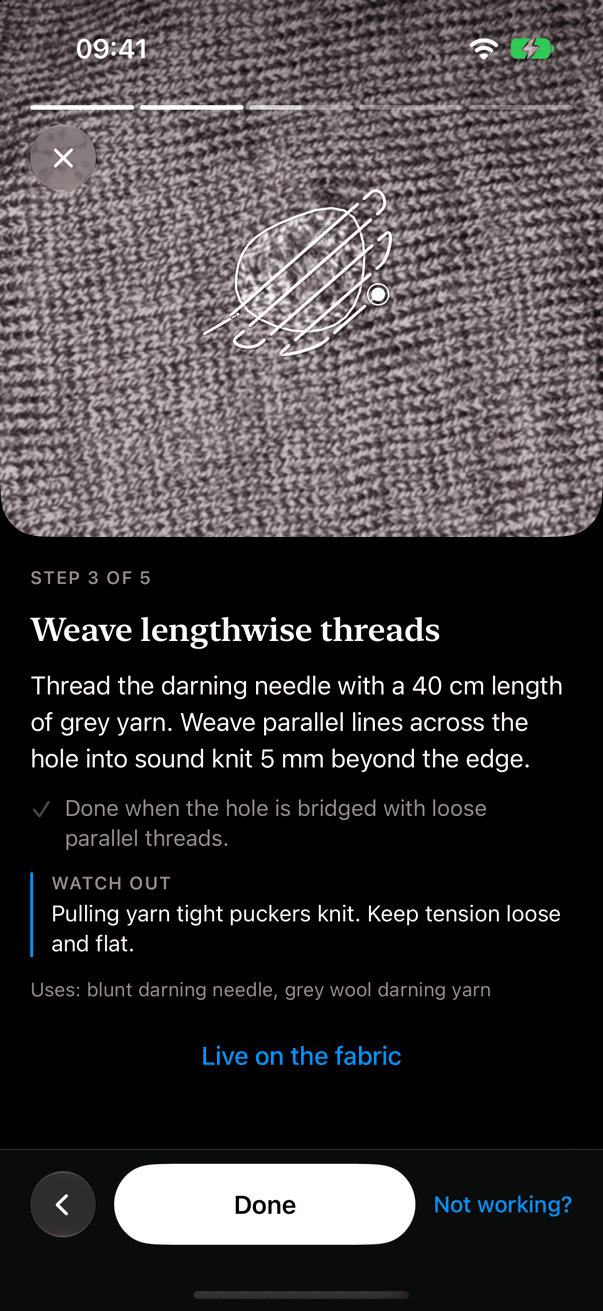
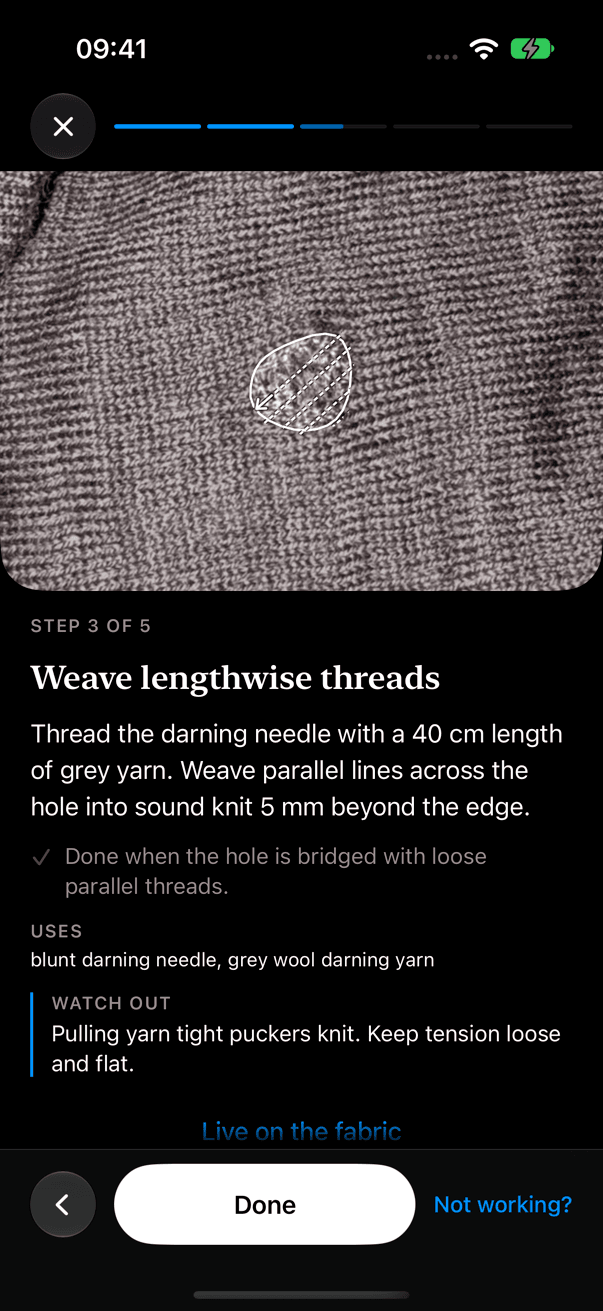
ios: Uses-Zeile kompakt, alle v8-Screenshots neu aufgenommen

diff --git a/ios/RepairAssistant/Views/GuideView.swift b/ios/RepairAssistant/Views/GuideView.swift
@@ -107,11 +107,8 @@ struct GuideView: View {
             if !items.isEmpty {
                 VStack(alignment: .leading, spacing: 4) {
                     Text("Uses").overline()
-                    VStack(alignment: .leading, spacing: 2) {
-                        ForEach(Array(items.enumerated()), id: \.offset) { _, it in
-                            Text(Self.shortName(it.name)).font(.footnote).foregroundStyle(Theme.ink)
-                        }
-                    }
+                    Text(items.map { Self.shortName($0.name) }.joined(separator: ", "))
+                        .font(.footnote).foregroundStyle(Theme.ink).fixedSize(horizontal: false, vertical: true)
                 }
             }
             if let m = step.commonMistake, !m.isEmpty {
